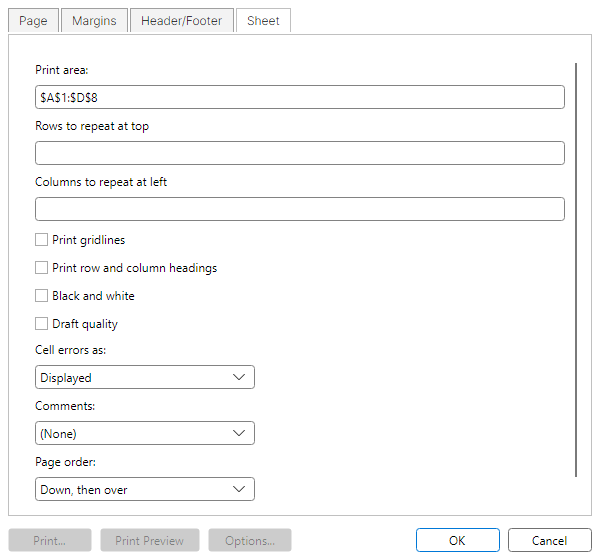
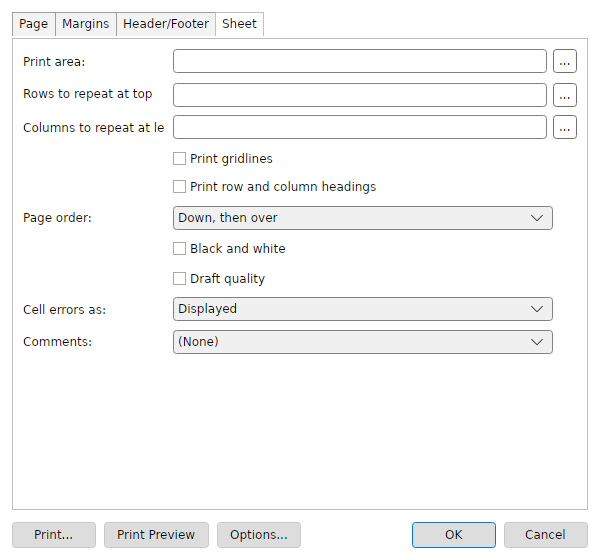
Refresh Wave 22 parity evidence

diff --git a/docs/parity/freew-dialog-harness/freew_dialog_visual_comparison.html b/docs/parity/freew-dialog-harness/freew_dialog_visual_comparison.html
@@ -103,12 +103,12 @@
 <tr><td>insert-smart-art.initial</td><td>captured/captured</td><td><b>genuine-visual-mismatch</b></td><td>pass (11.3% painted)</td><td>pass (8.9% painted)</td><td>11.60 %</td><td>6.05</td><td></td><td>heatmaps/insert-smart-art.initial.png</td></tr>
 <tr><td>insert-smart-art.populated</td><td>captured/captured</td><td><b>genuine-visual-mismatch</b></td><td>pass (11.3% painted)</td><td>pass (8.9% painted)</td><td>11.60 %</td><td>6.05</td><td></td><td>heatmaps/insert-smart-art.populated.png</td></tr>
 <tr><td>insert-smart-art.validation-error</td><td>captured/captured</td><td><b>genuine-visual-mismatch</b></td><td>pass (7.8% painted)</td><td>pass (5.4% painted)</td><td>8.29 %</td><td>5.43</td><td></td><td>heatmaps/insert-smart-art.validation-error.png</td></tr>
-<tr><td>legal-notices.initial</td><td>captured/captured</td><td><b>genuine-visual-mismatch</b></td><td>pass (8.3% painted)</td><td>pass (9.2% painted)</td><td>10.93 %</td><td>11.45</td><td></td><td>heatmaps/legal-notices.initial.png</td></tr>
-<tr><td>legal-notices.tab-legal-notices</td><td>captured/captured</td><td><b>genuine-visual-mismatch</b></td><td>pass (14.5% painted)</td><td>pass (14.4% painted)</td><td>21.82 %</td><td>24.10</td><td></td><td>heatmaps/legal-notices.tab-legal-notices.png</td></tr>
-<tr><td>legal-notices.tab-privacy-notice</td><td>captured/captured</td><td><b>genuine-visual-mismatch</b></td><td>pass (12.6% painted)</td><td>pass (13.1% painted)</td><td>18.84 %</td><td>20.08</td><td></td><td>heatmaps/legal-notices.tab-privacy-notice.png</td></tr>
-<tr><td>legal-notices.tab-project-license</td><td>captured/captured</td><td><b>genuine-visual-mismatch</b></td><td>pass (8.3% painted)</td><td>pass (9.2% painted)</td><td>10.93 %</td><td>11.45</td><td></td><td>heatmaps/legal-notices.tab-project-license.png</td></tr>
-<tr><td>legal-notices.tab-third-party-license-texts</td><td>captured/captured</td><td><b>genuine-visual-mismatch</b></td><td>pass (14.5% painted)</td><td>pass (14.8% painted)</td><td>22.00 %</td><td>23.70</td><td></td><td>heatmaps/legal-notices.tab-third-party-license-texts.png</td></tr>
-<tr><td>legal-notices.tab-third-party-notices</td><td>captured/captured</td><td><b>genuine-visual-mismatch</b></td><td>pass (14.9% painted)</td><td>pass (15.0% painted)</td><td>22.03 %</td><td>23.85</td><td></td><td>heatmaps/legal-notices.tab-third-party-notices.png</td></tr>
+<tr><td>legal-notices.initial</td><td>captured/captured</td><td><b>genuine-visual-mismatch</b></td><td>pass (8.3% painted)</td><td>pass (8.9% painted)</td><td>10.32 %</td><td>11.18</td><td></td><td>heatmaps/legal-notices.initial.png</td></tr>
+<tr><td>legal-notices.tab-legal-notices</td><td>captured/captured</td><td><b>genuine-visual-mismatch</b></td><td>pass (14.5% painted)</td><td>pass (13.9% painted)</td><td>21.06 %</td><td>23.47</td><td></td><td>heatmaps/legal-notices.tab-legal-notices.png</td></tr>
+<tr><td>legal-notices.tab-privacy-notice</td><td>captured/captured</td><td><b>genuine-visual-mismatch</b></td><td>pass (12.6% painted)</td><td>pass (12.8% painted)</td><td>18.39 %</td><td>19.83</td><td></td><td>heatmaps/legal-notices.tab-privacy-notice.png</td></tr>
+<tr><td>legal-notices.tab-project-license</td><td>captured/captured</td><td><b>genuine-visual-mismatch</b></td><td>pass (8.3% painted)</td><td>pass (8.9% painted)</td><td>10.32 %</td><td>11.18</td><td></td><td>heatmaps/legal-notices.tab-project-license.png</td></tr>
+<tr><td>legal-notices.tab-third-party-license-texts</td><td>captured/captured</td><td><b>genuine-visual-mismatch</b></td><td>pass (14.5% painted)</td><td>pass (14.5% painted)</td><td>21.74 %</td><td>23.46</td><td></td><td>heatmaps/legal-notices.tab-third-party-license-texts.png</td></tr>
+<tr><td>legal-notices.tab-third-party-notices</td><td>captured/captured</td><td><b>genuine-visual-mismatch</b></td><td>pass (14.9% painted)</td><td>pass (14.7% painted)</td><td>21.67 %</td><td>23.47</td><td></td><td>heatmaps/legal-notices.tab-third-party-notices.png</td></tr>
 <tr><td>line-number-options.initial</td><td>captured/captured</td><td><b>genuine-visual-mismatch</b></td><td>pass (5.6% painted)</td><td>pass (2.9% painted)</td><td>6.41 %</td><td>3.49</td><td>default-button,cancel-button,action-button-order</td><td>heatmaps/line-number-options.initial.png</td></tr>
 <tr><td>line-number-options.populated</td><td>captured/captured</td><td><b>genuine-visual-mismatch</b></td><td>pass (5.6% painted)</td><td>pass (2.9% painted)</td><td>6.41 %</td><td>3.49</td><td>default-button,cancel-button,action-button-order</td><td>heatmaps/line-number-options.populated.png</td></tr>
 <tr><td>line-number-options.validation-error</td><td>captured/captured</td><td><b>genuine-visual-mismatch</b></td><td>pass (5.7% painted)</td><td>pass (2.9% painted)</td><td>6.56 %</td><td>3.68</td><td>default-button,cancel-button,action-button-order</td><td>heatmaps/line-number-options.validation-error.png</td></tr>

diff --git a/docs/parity/freep-command-parity-inventory.md b/docs/parity/freep-command-parity-inventory.md
@@ -22,7 +22,7 @@ Raw missing counts preserve one-sided generated profile surface counts. Actionab
 | `freep.presenter.session.summary` | Presenter recording plus ink session summary | shared-executable-evidence | WPF/Avalonia slideshow-window summary state over shared recording and ink planners | `docs/planning/freep-powerpoint-parity-status-2026-06-27.md` | `freep/FreeP.App.Presentation.Tests/SlideShowPresenterSessionSummaryPlannerTests.cs`<br>`freep/FreeP.App.Host.Tests/SlideShowTests.cs`<br>`freep/FreeP.App.Avalonia.Tests/SlideShowWindowHeadlessTests.cs` | PowerPoint-authoritative recording studio/session-summary baselines and capture-backed transcript evidence remain deferred. |
 | `freep.review.comments.thread-depth` | Modern comments mention, reply, filter, navigation, and action-state depth | shared-planner-and-host-evidence | WPF/Avalonia shared review planner plus thin WPF adapter and Avalonia headless consumers | `docs/parity/freep-comments-review-navigation-2026-07-03.md`<br>`docs/parity/freep-modern-comments-anchor-fidelity-2026-07-03.md`<br>`docs/parity/freep-modern-comment-author-identity-2026-07-04.md`<br>`docs/parity/freep-comment-mention-detail-2026-07-04.md`<br>`docs/parity/freep-comment-mention-insertion-2026-07-06.md`<br>`docs/parity/freep-comment-mention-picker-2026-07-24.md`<br>`docs/parity/freep-comment-thread-filter-depth-2026-07-04.md`<br>`docs/parity/freep-comments-review-accessibility-evidence-inventory-2026-07-05.md` | `freep/FreeP.App.Presentation.Tests/PresentationReviewWorkflowPlannerTests.cs`<br>`freep/FreeP.App.Host.Tests/ReviewWorkflowAdapterTests.cs`<br>`freep/FreeP.App.Host.Tests/SectionsCommentsTests.cs`<br>`freep/FreeP.App.Avalonia.Tests/MainWindowHeadlessTests.cs` | Shared mention candidate planning, selectable WPF/Avalonia mention pickers, and mention insertion now route through the WPF/Avalonia review planner and thin host adapters. PowerPoint-authoritative review-pane visual baselines, coauthor presence, and notification routing remain deferred. |
 | `freep.review.accessibility.proofing-depth` | Accessibility checker remediation, reading order, and proofing action depth | shared-planner-and-host-evidence | WPF/Avalonia shared review planner with host row-action, reading-order, and proofing adapters | `docs/parity/freep-accessibility-table-header-depth-2026-07-03.md`<br>`docs/parity/freep-comments-review-accessibility-evidence-inventory-2026-07-05.md` | `freep/FreeP.App.Presentation.Tests/PresentationReviewWorkflowPlannerTests.cs`<br>`freep/FreeP.App.Host.Tests/ReviewWorkflowAdapterTests.cs`<br>`freep/FreeP.App.Avalonia.Tests/MainWindowHeadlessTests.cs` | PowerPoint-authoritative accessibility checker baselines, grammar-scale proofing, remediation-pane baselines, and reading-order pane visual baselines remain deferred. |
-| `freep.animation-pane.workflow-depth` | Animation pane row workflow, timing/effect options, reordering, and playback readiness | shared-planner-and-host-evidence | WPF/Avalonia consume shared animation-pane workflow evidence over thin host pane adapters | `docs/parity/freep-animation-pane-workflow-depth-2026-07-06.md`<br>`docs/parity/freep-animation-pane-advanced-effect-options-2026-07-05.md`<br>`docs/parity/freep-remaining-imported-animation-playback-2026-07-13.md`<br>`docs/parity/freep-animation-playback-frame-evidence-2026-07-13.md`<br>`docs/parity/freep-animation-pane-playback-workflow-evidence-2026-07-14.md`<br>`docs/parity/freep-slideshow-playback-readiness-2026-07-14.md`<br>`docs/parity/freep-animation-pane-powerpoint-baseline-readiness-2026-07-14.md` | `freep/FreeP.App.Presentation.Tests/AnimationPanePlannerTests.cs`<br>`freep/FreeP.App.Presentation.Tests/SlideShowPlaybackPlannerTests.cs`<br>`freep/FreeP.App.Host.Tests/AnimationPaneTests.cs`<br>`freep/FreeP.App.Host.Tests/SlideShowHostPolicySourceTests.cs`<br>`freep/FreeP.App.Avalonia.Tests/SlideShowHostPolicySourceTests.cs`<br>`freep/FreeP.App.Avalonia.Tests/MainWindowHeadlessTests.cs` | Shared animation-pane row evidence now covers selected-row state, timing editors, effect-option rows, reorder availability, playback control readiness, deterministic playback plans for remaining imported Dissolve/Flash/Spiral/Swivel/Bounce/Float/Swoop/Boomerang families, renderer-neutral playback frame descriptors consumed by WPF/Avalonia slideshow hosts, paired no-COM pane playback workflow/session evidence rows, paired no-COM slideshow playback-readiness host rows, and no-COM PowerPoint/WPF/Avalonia baseline capture readiness manifests for pane UI plus playback checkpoints. Capturing and comparing the PowerPoint-authoritative animation-pane UI baselines and exact advanced effect playback visuals still requires a COM-capable PowerPoint baseline machine. |
+| `freep.animation-pane.workflow-depth` | Animation pane row workflow, timing/effect options, reordering, and playback readiness | shared-planner-and-host-evidence | WPF/Avalonia consume shared animation-pane workflow evidence over thin host pane adapters | `docs/parity/freep-animation-pane-workflow-depth-2026-07-06.md`<br>`docs/parity/freep-animation-pane-advanced-effect-options-2026-07-05.md`<br>`docs/parity/freep-remaining-imported-animation-playback-2026-07-13.md`<br>`docs/parity/freep-animation-playback-frame-evidence-2026-07-13.md`<br>`docs/parity/freep-animation-pane-playback-workflow-evidence-2026-07-14.md`<br>`docs/parity/freep-slideshow-playback-readiness-2026-07-14.md`<br>`docs/parity/freep-animation-pane-powerpoint-baseline-readiness-2026-07-14.md`<br>`docs/parity/freep-animation-split-effect-options-wave22-20260727.md` | `freep/FreeP.Core.Model/AnimationDirectionSemantics.cs`<br>`freep/FreeP.App.Presentation.Tests/AnimationPanePlannerTests.cs`<br>`freep/FreeP.App.Presentation.Tests/AnimationPresetRoundTripTests.cs`<br>`freep/FreeP.App.Presentation.Tests/SlideShowPlaybackPlannerTests.cs`<br>`freep/FreeP.App.Host.Tests/AnimationPaneTests.cs`<br>`freep/FreeP.App.Host.Tests/SlideShowHostPolicySourceTests.cs`<br>`freep/FreeP.App.Avalonia.Tests/SlideShowHostPolicySourceTests.cs`<br>`freep/FreeP.App.Avalonia.Tests/MainWindowHeadlessTests.cs` | Shared animation-pane row evidence now covers selected-row state, timing editors, effect-option rows, reorder availability, playback control readiness, all four Split direction combinations (Horizontal In/Out and Vertical In/Out) with legacy axis-only compatibility and PPTX subtype round-trip, deterministic playback plans for remaining imported Dissolve/Flash/Spiral/Swivel/Bounce/Float/Swoop/Boomerang families, renderer-neutral playback frame descriptors consumed by WPF/Avalonia slideshow hosts, paired no-COM pane playback workflow/session evidence rows, paired no-COM slideshow playback-readiness host rows, and no-COM PowerPoint/WPF/Avalonia baseline capture readiness manifests for pane UI plus playback checkpoints. Capturing and comparing the PowerPoint-authoritative animation-pane UI baselines and exact advanced effect playback visuals still requires a COM-capable PowerPoint baseline machine. |
 | `freep.export.backstage.package-handoff` | Backstage export and print package-handoff depth beyond notes-page PDF | shared-planner-and-tool-evidence | WPF/Avalonia shared Backstage export, print package, image export, and video frame-package planners with PowerPoint COM rows n/a/deferred | `docs/parity/freep-export-backstage-evidence-2026-07-05.md`<br>`docs/parity/2026-06-27-avalonia-wpf-parity-scope.md` | `freep/FreeP.App.Presentation.Tests/PresentationExportBackstageEvidencePlannerTests.cs`<br>`tools/FreeP.RenderCompare.Tests/ExportBackstageEvidenceTests.cs`<br>`tools/FreeP.RenderCompare --export-backstage-evidence <deck.pptx> <outDir>` | PowerPoint-authoritative fixed-layout, image, video, print, and Backstage visual baselines still require a PowerPoint COM-capable machine; local WPF/Avalonia evidence does not claim Microsoft PowerPoint visual parity. |
 | `freep.export.pdf-visual-baseline-readiness` | PowerPoint-authoritative PDF visual baseline readiness | shared-baseline-readiness-evidence | WPF/Avalonia share one PDF/export package contract with source-bound manifest, WPF/Avalonia PDF and page-raster artifact patterns, paired diff-report paths, and deferred PowerPoint PDF/PNG artifact paths; no local PowerPoint COM visual baseline is claimed | `docs/parity/freep-pdf-visual-baseline-readiness-2026-07-14.md`<br>`docs/parity/freep-pdf-baseline-diff-readiness-2026-07-14.md` | `freep/FreeP.App.Presentation/PresentationPdfVisualBaselineReadinessPlanner.cs`<br>`freep/FreeP.App.Presentation.Tests/PresentationPdfVisualBaselineReadinessPlannerTests.cs` | No-COM readiness now covers portable slide PDF, full-page raster PDF, 3-up handout PDF, and notes-page PDF rows with source-normalized manifest paths, matching WPF/Avalonia fingerprints, WPF/Avalonia page-raster artifact patterns, paired WPF-vs-Avalonia and deferred PowerPoint diff report targets, pinned raster DPI, and explicit PowerPoint PDF/PNG artifact targets for a COM-capable baseline machine. Actual PowerPoint-exported PDFs/PNGs, calibrated visual diffs, thresholds, and representative real-deck capture still require PowerPoint.Application COM on a baseline host. |
 | `freep.export.pdf-ellipse-fixed-layout` | Fixed-layout PDF ellipse and oval shape export | shared-fixed-layout-evidence | WPF/Avalonia share the same FreeP PDF exporter, notes-page PDF thumbnail mapper, handout PDF thumbnail mapper, and shared portable/Skia PDF draw-op model | `docs/parity/freep-pdf-ellipse-export-2026-07-13.md` | `tests/Free.Shared.Pdf.Tests/PortablePdfWriterTests.cs`<br>`freep/FreeP.App.Host.Tests/PresentationPdfExporterTests.cs`<br>`freep/FreeP.App.Presentation.Tests/PresentationExportPlannerTests.cs` | Axis-aligned oval/ellipse fixed-layout output is covered through shared WPF/Avalonia PDF paths. Broader gradient-stop transparency nuance, soft-edge/blur tuning, richer clipping cases, and PowerPoint-authoritative PDF visual baselines remain deferred. |

diff --git a/docs/parity/avalonia-wpf-cross-app-dashboard.md b/docs/parity/avalonia-wpf-cross-app-dashboard.md
@@ -8,7 +8,7 @@ Generated by `tools/Generate-CrossAppParityDashboard.ps1` from existing generate
 
 | App | Primary evidence | Current generated state | Next slice |
 |---|---|---|---|
-| FreeX | Functional matrix, classifier, dialog inventory, dialog visual evidence, command surface | 531 functional commands; 473 command inventory parity; 0 Avalonia-missing; 0 real classified binding gaps; 48 catalog-backed pseudo-gallery rows (34 conditional-format, 10 font/border, 4 accounting-symbol); 57/57 dialog routes captured on WPF and Avalonia; 94 paired screenshot surface ids, 0 Avalonia-only ids, 0 WPF-only ids; 0 scale-aware dimension mismatches; 0 unresolved high-delta visual review candidates at triage score >= 0.4 (highest 0.11683); 29 raw PNG pixel dimension mismatches, of which 29 normalize by capture DPI. These are coverage/triage metrics, not a visual-parity claim. | Command/dialog route coverage is complete for the generated inputs: all 48 pseudo-gallery rows are catalog-backed in classifier evidence (34 conditional-format rows over 38 runtime catalog items, 10 font/border rows, and 4 accounting-symbol rows), and dialog screenshot evidence has 94 paired WPF/Avalonia manifest surface ids with 0 Avalonia-only ids. This is coverage and size-comparability evidence, not visual parity. The paired screenshots retain 0 unresolved high-delta visual review candidates at triage score >= 0.4 (highest 0.11683); keep those candidates separate from 0 scale-aware dimension mismatch rows and 29 raw PNG pixel dimension mismatches. |
+| FreeX | Functional matrix, classifier, dialog inventory, dialog visual evidence, command surface | 531 functional commands; 473 command inventory parity; 0 Avalonia-missing; 0 real classified binding gaps; 48 catalog-backed pseudo-gallery rows (34 conditional-format, 10 font/border, 4 accounting-symbol); 57/57 dialog routes captured on WPF and Avalonia; 94 paired screenshot surface ids, 0 Avalonia-only ids, 0 WPF-only ids; 0 scale-aware dimension mismatches; 0 unresolved high-delta visual review candidates at triage score >= 0.4 (highest 0.111494); 29 raw PNG pixel dimension mismatches, of which 29 normalize by capture DPI. These are coverage/triage metrics, not a visual-parity claim. | Command/dialog route coverage is complete for the generated inputs: all 48 pseudo-gallery rows are catalog-backed in classifier evidence (34 conditional-format rows over 38 runtime catalog items, 10 font/border rows, and 4 accounting-symbol rows), and dialog screenshot evidence has 94 paired WPF/Avalonia manifest surface ids with 0 Avalonia-only ids. This is coverage and size-comparability evidence, not visual parity. The paired screenshots retain 0 unresolved high-delta visual review candidates at triage score >= 0.4 (highest 0.111494); keep those candidates separate from 0 scale-aware dimension mismatch rows and 29 raw PNG pixel dimension mismatches. |
 | FreeW | Generated command inventory | 870 commands; 451 shared-profile; 0 actionable WPF-missing; 0 actionable Avalonia-missing; 371 profile-shape-only; 43 command-id aliases; 5 platform-only; 0 deferred | Backstage print/export, WordArt/watermark, table/page-composition, shape/object, SmartArt polygon, and chart visual proof now have paired WPF/Avalonia renderer contracts plus no-Word real-capture smoke runs; chart proof also validates shared chart data signatures across hosts. All-up no-Word runner fallback drift is classified as runner evidence hygiene, and the standalone no-Word runner now writes a post-summary readiness manifest with comparable scenario IDs, candidate Word PNG baseline paths, remaining blocker IDs, and an explicit no-authoritative-Word-PNG-parity claim. Next FreeW evidence slices are the same runs with real Word PNG baselines on a Word-capable host and broader Word-authoritative drawing/object/chart/table comparisons. |
 | FreeP | Generated command/evidence inventory | 346 commands; 344 shared-profile; 0 actionable WPF-missing; 0 actionable Avalonia-missing; 2 platform-only; 99 workflow evidence rows | Layout picker, table picker, rich inline table/text editing, shared visible list galleries, picture-bullet import/rendering plus picker/media authoring, slide-pane reorder, bottom New Slide, notes-page preview/PDF rendering, fixed-layout PDF connector, image, triangle-arrowhead, rotation, ellipse, picture-frame/crop/alpha/color-effect, shape-opacity export, and PDF visual-baseline readiness with WPF/Avalonia page-raster artifact patterns plus paired diff-report targets, export/backstage package-handoff, presenter recording backend contracts plus capture-adapter readiness and paired backend injection, captured PPTX media and generated WebVTT caption artifact authoring, focused PowerPoint-native caption package retention including external caption relationship metadata, native media/caption sidecar package depth, and caption relationship-id collision remapping, shared chart number/date label rendering plus edge/mixed manual-layout bounds, surface grid plus projected contour/wireframe/3-D surface geometry plus 3-D pie lower-depth rendering, stock OHLC capture-readiness metadata, and PowerPoint/WPF/Avalonia chart baseline capture readiness, SmartArt basic hierarchy plus vertical bullet list plus basic cycle plus radial cycle plus gear cycle plus text cycle plus basic, continuous block, segmented, chevron, alternating, funnel, circle, and arrow-ribbon process plus basic block list plus vertical box list plus stacked list plus basic pyramid plus bounded pictureCaptionList live layout plus basic/radial/stacked Venn and target-list relationship layouts plus shared outline reorder/promote/demote editing, data-part authoring, text-pane/cache-regeneration authoring, and matching thin WPF/Avalonia text-pane host controls with bounded keyboard routes, header/footer placeholder creation plus inherited layout/master geometry, title-slide suppression, fixed/auto date options, shared OMML fraction-type variants, matrix spacing/base alignment, delimiter grow semantics, accent/bar render-plan coverage, manual line breaks, boxed equation-array alignment points, transparent phantom spacing classes, pre-sub/superscript layout, matrix empty-cell placeholder handling, and group-character vertical justification, ink execution with repeated custom-show route retention, modern comments/review with shared mention candidate and insertion planning, accessibility/proofing workflow depth, animation-pane row/playback workflow evidence, paired real Windows microphone narration handoff, paired Windows camera handoff readiness, paired default no-COM camera handoff/package-target readiness without encoded-payload or PowerPoint-baseline claims, deterministic encoded camera media payload artifacts through host-specific PPTX package paths, and paired OS-backed unavailable-hardware/no-device recording evidence now have WPF/Avalonia no-COM evidence paths. Continue workflow-depth slices in live capture on real microphone/camera hardware, actual local default no-COM camera video encoding that produces non-empty mp4 payloads, calibrated chart-family acceptance thresholds and remaining type-specific decisions beyond the current PowerPoint baseline-depth/type/label captures, broader SmartArt layout families, remaining OMML constructs/alignment semantics and PowerPoint-authoritative math visual-baseline coverage, broader real-deck PowerPoint-native media/caption baselines, actual PowerPoint PDF/PNG capture and calibrated PDF visual diffs on a COM-capable host, and PowerPoint-authoritative animation-pane visual/playback baselines. |
 

diff --git a/docs/parity/freew-dialog-harness/freew_dialog_visual_comparison.md b/docs/parity/freew-dialog-harness/freew_dialog_visual_comparison.md
@@ -111,12 +111,12 @@ Inventory scenarios: **466**. Captured WPF: **187**. Captured Avalonia: **279**.
 | `insert-smart-art.initial` | captured/captured | **genuine-visual-mismatch** | pass (11.3% painted) | pass (8.9% painted) | 11.60 % | 6.05 |  | heatmaps/insert-smart-art.initial.png |
 | `insert-smart-art.populated` | captured/captured | **genuine-visual-mismatch** | pass (11.3% painted) | pass (8.9% painted) | 11.60 % | 6.05 |  | heatmaps/insert-smart-art.populated.png |
 | `insert-smart-art.validation-error` | captured/captured | **genuine-visual-mismatch** | pass (7.8% painted) | pass (5.4% painted) | 8.29 % | 5.43 |  | heatmaps/insert-smart-art.validation-error.png |
-| `legal-notices.initial` | captured/captured | **genuine-visual-mismatch** | pass (8.3% painted) | pass (9.2% painted) | 10.93 % | 11.45 |  | heatmaps/legal-notices.initial.png |
-| `legal-notices.tab-legal-notices` | captured/captured | **genuine-visual-mismatch** | pass (14.5% painted) | pass (14.4% painted) | 21.82 % | 24.10 |  | heatmaps/legal-notices.tab-legal-notices.png |
-| `legal-notices.tab-privacy-notice` | captured/captured | **genuine-visual-mismatch** | pass (12.6% painted) | pass (13.1% painted) | 18.84 % | 20.08 |  | heatmaps/legal-notices.tab-privacy-notice.png |
-| `legal-notices.tab-project-license` | captured/captured | **genuine-visual-mismatch** | pass (8.3% painted) | pass (9.2% painted) | 10.93 % | 11.45 |  | heatmaps/legal-notices.tab-project-license.png |
-| `legal-notices.tab-third-party-license-texts` | captured/captured | **genuine-visual-mismatch** | pass (14.5% painted) | pass (14.8% painted) | 22.00 % | 23.70 |  | heatmaps/legal-notices.tab-third-party-license-texts.png |
-| `legal-notices.tab-third-party-notices` | captured/captured | **genuine-visual-mismatch** | pass (14.9% painted) | pass (15.0% painted) | 22.03 % | 23.85 |  | heatmaps/legal-notices.tab-third-party-notices.png |
+| `legal-notices.initial` | captured/captured | **genuine-visual-mismatch** | pass (8.3% painted) | pass (8.9% painted) | 10.32 % | 11.18 |  | heatmaps/legal-notices.initial.png |
+| `legal-notices.tab-legal-notices` | captured/captured | **genuine-visual-mismatch** | pass (14.5% painted) | pass (13.9% painted) | 21.06 % | 23.47 |  | heatmaps/legal-notices.tab-legal-notices.png |
+| `legal-notices.tab-privacy-notice` | captured/captured | **genuine-visual-mismatch** | pass (12.6% painted) | pass (12.8% painted) | 18.39 % | 19.83 |  | heatmaps/legal-notices.tab-privacy-notice.png |
+| `legal-notices.tab-project-license` | captured/captured | **genuine-visual-mismatch** | pass (8.3% painted) | pass (8.9% painted) | 10.32 % | 11.18 |  | heatmaps/legal-notices.tab-project-license.png |
+| `legal-notices.tab-third-party-license-texts` | captured/captured | **genuine-visual-mismatch** | pass (14.5% painted) | pass (14.5% painted) | 21.74 % | 23.46 |  | heatmaps/legal-notices.tab-third-party-license-texts.png |
+| `legal-notices.tab-third-party-notices` | captured/captured | **genuine-visual-mismatch** | pass (14.9% painted) | pass (14.7% painted) | 21.67 % | 23.47 |  | heatmaps/legal-notices.tab-third-party-notices.png |
 | `line-number-options.initial` | captured/captured | **genuine-visual-mismatch** | pass (5.6% painted) | pass (2.9% painted) | 6.41 % | 3.49 | default-button,cancel-button,action-button-order | heatmaps/line-number-options.initial.png |
 | `line-number-options.populated` | captured/captured | **genuine-visual-mismatch** | pass (5.6% painted) | pass (2.9% painted) | 6.41 % | 3.49 | default-button,cancel-button,action-button-order | heatmaps/line-number-options.populated.png |
 | `line-number-options.validation-error` | captured/captured | **genuine-visual-mismatch** | pass (5.7% painted) | pass (2.9% painted) | 6.56 % | 3.68 | default-button,cancel-button,action-button-order | heatmaps/line-number-options.validation-error.png |

diff --git a/docs/parity/dialog-visual-evidence-summary.md b/docs/parity/dialog-visual-evidence-summary.md
@@ -62,7 +62,6 @@ Outliers are ranked by a deterministic triage score: normalized 32x32 ARGB sampl
 
 | Surface id | WPF logical size | Avalonia logical size | Raw PNG sizes | Bucket | Evidence flag | Score | Sample delta | Luma delta | Non-bg delta |
 | --- | ---: | ---: | --- | --- | --- | ---: | ---: | ---: | ---: |
-| dialog.PageSetup.Sheet | 600x560 | 600x560 | 600x560 px @ 96 DPI vs 600x560 px @ 96 DPI |  |  | 0.117 | 0.035 | 0.008 | 0.073 |
 | dialog.Options | 744x521 | 744x521 | 744x521 px @ 96 DPI vs 744x521 px @ 96 DPI |  |  | 0.111 | 0.026 | 0.007 | 0.078 |
 | dialog.Options.General | 744x521 | 744x521 | 744x521 px @ 96 DPI vs 744x521 px @ 96 DPI |  |  | 0.111 | 0.026 | 0.007 | 0.078 |
 | dialog.SortOptions | 330x260 | 330x260 | 495x390 px @ 144 DPI vs 330x260 px @ 96 DPI |  |  | 0.111 | 0.053 | 0.010 | 0.047 |
@@ -72,6 +71,7 @@ Outliers are ranked by a deterministic triage score: normalized 32x32 ARGB sampl
 | dialog.ScenarioManager | 360x420 | 360x420 | 540x630 px @ 144 DPI vs 360x420 px @ 96 DPI |  |  | 0.104 | 0.053 | 0.006 | 0.044 |
 | dialog.ErrorChecking | 720x420 | 720x420 | 1080x630 px @ 144 DPI vs 720x420 px @ 96 DPI |  |  | 0.103 | 0.030 | 0.006 | 0.066 |
 | dialog.Options.TrustCenter | 744x521 | 744x521 | 744x521 px @ 96 DPI vs 744x521 px @ 96 DPI |  |  | 0.101 | 0.025 | 0.005 | 0.071 |
+| dialog.Options.CustomizeRibbon | 744x521 | 744x521 | 744x521 px @ 96 DPI vs 744x521 px @ 96 DPI |  |  | 0.100 | 0.018 | 0.006 | 0.075 |
 
 ## Scale-Aware Dimension Mismatch Details
 
@@ -145,7 +145,7 @@ These rows have a DPI-normalized checked-in PNG size that disagrees with the dia
 | dialog.PageSetup.HeaderFooter | dialog.PageSetup.HeaderFooter.png | 600x560 | 600x560 px @ 96 DPI | True | dialog.PageSetup.HeaderFooter.png | 600x560 | 600x560 px @ 96 DPI | True | True | 0.043 |
 | dialog.PageSetup.Margins | dialog.PageSetup.Margins.png | 600x560 | 600x560 px @ 96 DPI | True | dialog.PageSetup.Margins.png | 600x560 | 600x560 px @ 96 DPI | True | True | 0.041 |
 | dialog.PageSetup.Page | dialog.PageSetup.Page.png | 600x560 | 600x560 px @ 96 DPI | True | dialog.PageSetup.Page.png | 600x560 | 600x560 px @ 96 DPI | True | True | 0.091 |
-| dialog.PageSetup.Sheet | dialog.PageSetup.Sheet.png | 600x560 | 600x560 px @ 96 DPI | True | dialog.PageSetup.Sheet.png | 600x560 | 600x560 px @ 96 DPI | True | True | 0.117 |
+| dialog.PageSetup.Sheet | dialog.PageSetup.Sheet.png | 600x560 | 600x560 px @ 96 DPI | True | dialog.PageSetup.Sheet.png | 600x560 | 600x560 px @ 96 DPI | True | True | 0.048 |
 | dialog.PivotFieldFilter | dialog.PivotFieldFilter.png | 380x470 | 380x470 px @ 96 DPI | True | dialog.PivotFieldFilter.png | 380x470 | 380x470 px @ 96 DPI | True | True | 0.040 |
 | dialog.PivotFieldFilter.LabelFilters | dialog.PivotFieldFilter.LabelFilters.png | 380x470 | 380x470 px @ 96 DPI | True | dialog.PivotFieldFilter.LabelFilters.png | 380x470 | 380x470 px @ 96 DPI | True | True | 0.022 |
 | dialog.PivotFieldFilter.SelectItems | dialog.PivotFieldFilter.SelectItems.png | 380x470 | 380x470 px @ 96 DPI | True | dialog.PivotFieldFilter.SelectItems.png | 380x470 | 380x470 px @ 96 DPI | True | True | 0.040 |

diff --git a/docs/parity/avalonia-wpf-wave22-20260727.md b/docs/parity/avalonia-wpf-wave22-20260727.md
@@ -1,0 +1,51 @@
+# Avalonia/WPF Parity Wave 22
+
+Date: 2026-07-27
+
+## FreeX
+
+The Avalonia Page Setup Sheet tab now follows the WPF three-column layout,
+including range-picker buttons, WPF control order, full-width fields, and a
+fixed non-scrolling body at the shared 600x560 dialog size.
+
+Fresh Ubuntu 24.04 Docker/Xvfb evidence reduced the committed Sheet-tab triage
+score from 0.116830 to 0.048332. The remaining capture difference includes
+different demo-sheet values as well as platform text/control rasterization.
+
+Focused tests: 85 passed.
+
+## FreeW
+
+The shared Avalonia legal-notices dialog now uses WPF-aligned tab metrics,
+content-pane insets, typography, padding, scrolling, and focus behavior. The
+content-pane adjustment is an explicit per-dialog parameter, so other shared
+tabbed dialogs retain their existing layout.
+
+All six legal-notices states improved in the fresh paired report:
+
+| State | Before | After |
+| --- | ---: | ---: |
+| Initial | 10.93% | 10.32% |
+| Project License | 10.93% | 10.32% |
+| Legal Notices | 21.82% | 21.06% |
+| Privacy Notice | 18.84% | 18.39% |
+| Third-Party Notices | 22.03% | 21.67% |
+| Third-Party License Texts | 22.00% | 21.74% |
+
+Focused tests: 15 passed. The canonical report remains at 171 visual-only
+mismatches, 12 passes, 4 state-not-applicable rows, and 96 Avalonia extensions.
+
+## FreeP
+
+Split animation effect options now cover Horizontal In, Horizontal Out,
+Vertical In, and Vertical Out through the shared model, PPTX reader/writer,
+Animation Pane planner, playback planner, and both slideshow hosts. Legacy
+Horizontal and Vertical values retain their historical center-out behavior.
+
+Focused tests: 426 passed.
+
+## Verification
+
+Parent integration verification passed 526 focused tests with zero failures.
+Generated FreeX dialog evidence, FreeW paired visual evidence, FreeP command
+parity inventory, and the cross-app dashboard pass their freshness checks.

diff --git a/docs/parity/freep-animation-split-effect-options-wave22-20260727.md b/docs/parity/freep-animation-split-effect-options-wave22-20260727.md
@@ -1,0 +1,37 @@
+# FreeP Split Animation Effect Options - Wave 22
+
+Date: 2026-07-27
+
+## Scope
+
+PowerPoint exposes four effect options for Split animations:
+
+- Horizontal In
+- Horizontal Out
+- Vertical In
+- Vertical Out
+
+FreeP previously exposed only Horizontal and Vertical, so the Animation Pane
+could not preserve or author the in/out component.
+
+## Implementation
+
+- `AnimationDirection` now represents all four Split combinations.
+- `AnimationDirectionSemantics` supplies renderer-neutral axis and
+  center/outside behavior shared by WPF and Avalonia.
+- The Animation Pane lists and applies all four options.
+- PPTX subtype values `0` through `3` round-trip to the matching direction.
+- Legacy Horizontal and Vertical values remain supported and keep FreeP's
+  historical center-out playback behavior.
+- Both slideshow hosts consume the same shared Split semantics and mask
+  geometry planning.
+
+## Verification
+
+- FreeP presentation and IO tests: 188 passed.
+- FreeP WPF host tests: 18 passed.
+- FreeP Avalonia host tests: 220 passed.
+- Total focused Wave 22 verification: 426 passed, 0 failed.
+
+PowerPoint-authoritative Animation Pane screenshots and exact playback-frame
+visual comparisons remain part of the external baseline work.
